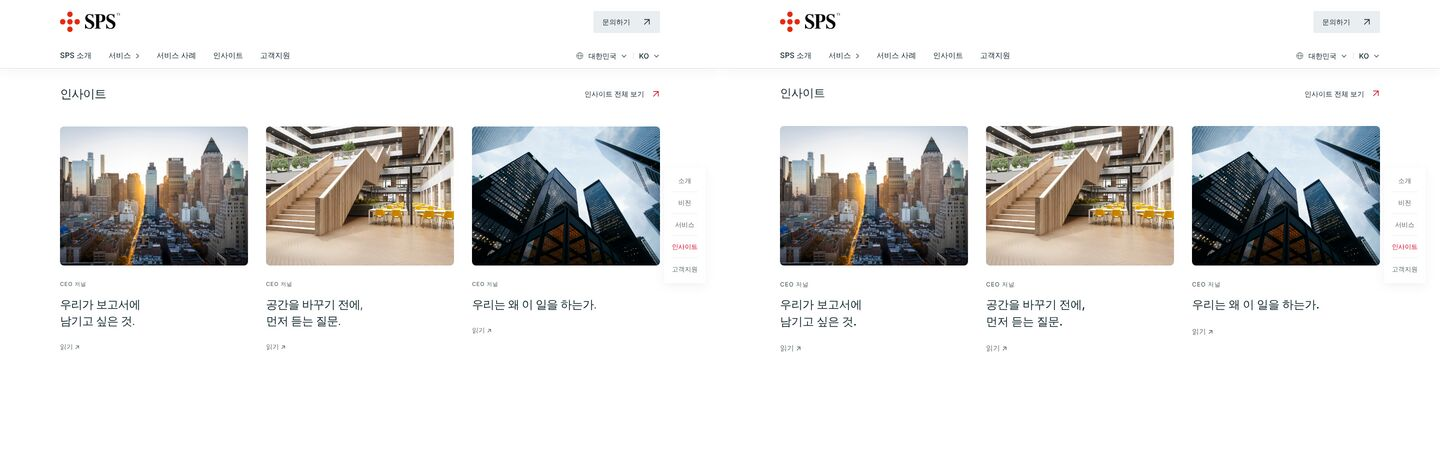
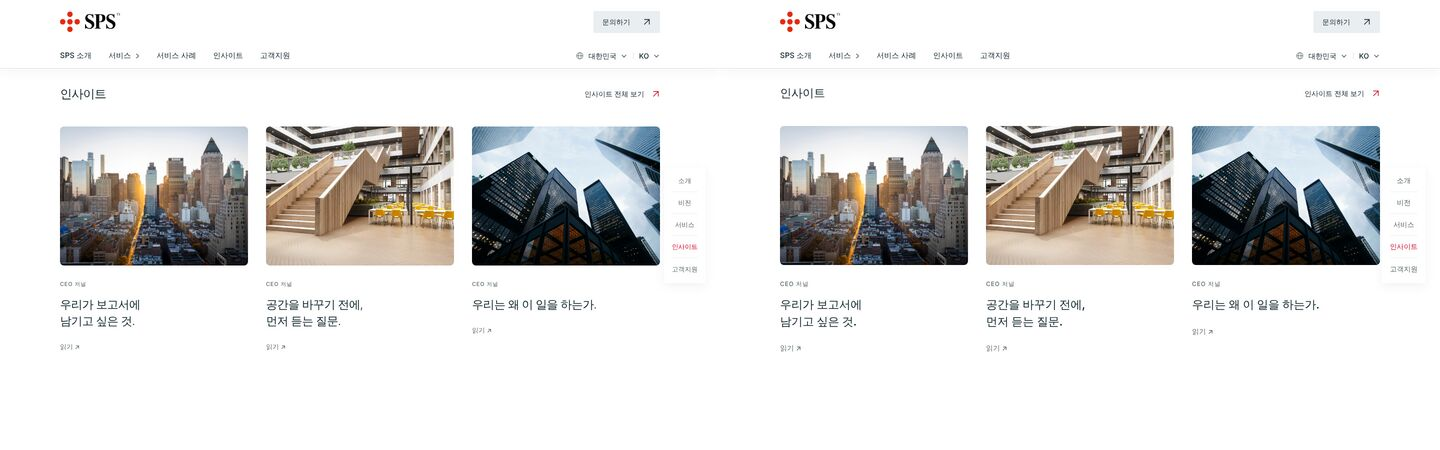
Derive the type scale from one base value
Every --type step is now a multiple of --type-base (16px), exposed in the theme
schema as one slider. V4 pins --body-size to the scale so body text drops from
18px to 16px there; page nav labels and the footer phone snap to 14/23.

Claude-Session: https://claude.ai/code/session_01C7rA9VdGtBry9LdATgwuFR

diff --git a/jll-remix-main-v4.css b/jll-remix-main-v4.css
@@ -140,9 +140,10 @@
   :where(html:not([data-sps-desktop])) .hw-main-v4 .hw-hero-copy h1 { font-size:min(var(--main-title-size,var(--display-title-size,72px)),var(--section-title-mobile,35px)); }
 }
 
-/* Type scale tokens live in jll-remix-tokens.css. V4 pins its display tokens to the scale,
-   so the local theme editor no longer changes these two sizes on this page. */
+/* Type scale tokens live in jll-remix-tokens.css. V4 pins body and display sizes to the scale,
+   so on this page the editor's "글자 단계 기준" value moves them all and the separate body/title values are ignored. */
 .hw-main-v4 {
+  --body-size:var(--type-16);
   --display-title-size:var(--type-64);
   --hero-title-size:var(--type-56);
 }
@@ -170,6 +171,8 @@
   .hw-main-v4 :is(.hw-business-copy h3 small,.hw-business-detail p) { font-size:var(--type-16); }
   .hw-main-v4 :is(.hw-business-detail a,.hw-news-grid a > span) { font-size:var(--type-14); }
   .hw-main-v4 .hw-news-grid small { font-size:var(--type-12); }
+  .hw-main-v4 .main-v4-page-nav .main-v4-nav-label { font-size:var(--type-14); }
+  .hw-main-v4 .sps-footer .sps-footer-phone { font-size:var(--type-23); }
 }
 /* Phone steps: hero 40 · section 28 · mid 23. Under 28px the mid headings drop to the sub-heading weight. */
 @media(min-width:361px) and (max-width:600px) {

diff --git a/jll-remix-tokens.css b/jll-remix-tokens.css
@@ -38,17 +38,19 @@ html[data-sps-desktop] [data-sps-header] { top: var(--sps-visible-top, 0px); }
   --chevron-color: #5c686c;
   --header-top-space: 16px;
   --locale-font-size: 12px;
-  /* Type scale (~1.2x from 16px body). Headings 28px and up use --heading-weight, smaller ones --subheading-weight.
+  /* Type scale (~1.2x). Every step is a multiple of --type-base, so one value moves the whole scale.
+     Headings 28px and up use --heading-weight, smaller ones --subheading-weight.
      Pretendard Variable renders any weight on its axis, so these are exact values, not snapped to 400/700. */
-  --type-12: 12px;
-  --type-14: 14px;
-  --type-16: 16px;
-  --type-19: 19px;
-  --type-23: 23px;
-  --type-28: 28px;
-  --type-36: 36px;
-  --type-56: 56px;
-  --type-64: 64px;
+  --type-base: 16px;
+  --type-12: calc(var(--type-base) * .75);
+  --type-14: calc(var(--type-base) * .875);
+  --type-16: var(--type-base);
+  --type-19: calc(var(--type-base) * 1.1875);
+  --type-23: calc(var(--type-base) * 1.4375);
+  --type-28: calc(var(--type-base) * 1.75);
+  --type-36: calc(var(--type-base) * 2.25);
+  --type-56: calc(var(--type-base) * 3.5);
+  --type-64: calc(var(--type-base) * 4);
   --heading-weight: 600;
   --subheading-weight: 500;
 }

diff --git a/jll-remix-theme-schema.js b/jll-remix-theme-schema.js
@@ -28,6 +28,7 @@
     font('--section-title-mobile','서비스 제목 · 모바일',35,24,44,'content'),
     font('--card-title-size','카드 제목',24,18,30,'content'),
     font('--body-size','기본 본문',16,14,20,'content'),
+    font('--type-base','글자 단계 기준 · V4',16,14,20,'content'),
     font('--story-font-size','스토리 항목',12,11,16,'components'),
     font('--field-font-size','선택 입력',14,13,18,'components'),
     font('--faq-font-size','FAQ 질문',14,13,18,'components'),
